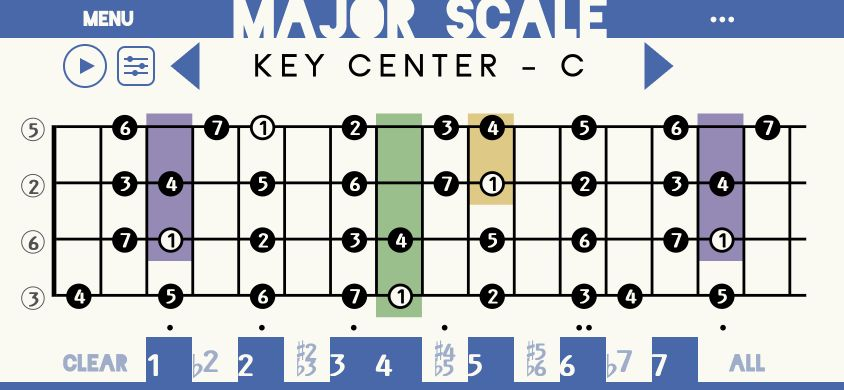
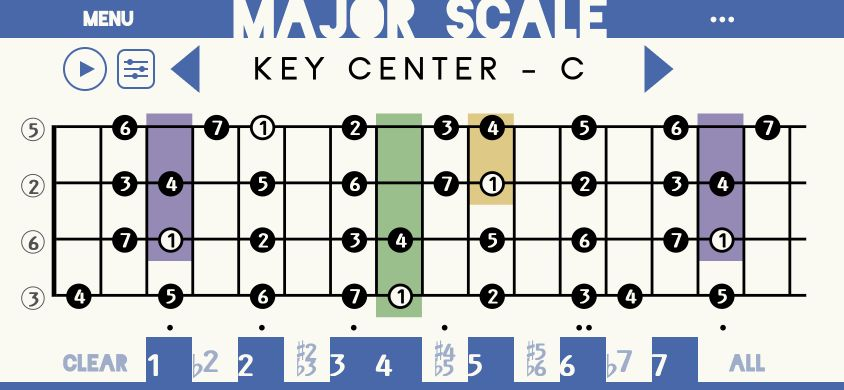
Ease phone practice row spacing below the header

diff --git a/src/components/AudioControls.jsx b/src/components/AudioControls.jsx
@@ -25,7 +25,7 @@ export const AUDIO_CONTROL_GROUP_WIDTH = AUDIO_BUTTON_SIZE + AUDIO_BUTTON_GAP + 
 const audioControlPlacement = (dimensions, insets) => {
   const isTablet = dimensions.width >= 1000 && dimensions.height >= 550;
   const phoneRow = getPhonePracticeHeaderLayout(insets);
-  const headerBottom = isTablet ? tabletHeaderHeight : phoneRow.top;
+  const headerBottom = isTablet ? tabletHeaderHeight : phoneRow.headerBottom;
   const top = isTablet ? headerBottom + 12 : phoneRow.centerY - AUDIO_BUTTON_SIZE / 2;
   const left = getMenuVisualCenterX(insets, isTablet) - AUDIO_CONTROL_GROUP_WIDTH / 2;
   return { headerBottom, isTablet, left, top };

diff --git a/src/components/Header.jsx b/src/components/Header.jsx
@@ -15,9 +15,10 @@ export const getMenuVisualCenterX = (insets, isTablet) => {
 
 // Anchor the phone practice row to the blue header, independent of neck layout.
 export const getPhonePracticeHeaderLayout = (insets) => {
-  const top = phoneHeaderHeight + (Platform.OS === "android" ? 0 : insets.top);
+  const headerBottom = phoneHeaderHeight + (Platform.OS === "android" ? 0 : insets.top);
+  const top = headerBottom + 3;
   const height = 56;
-  return { top, height, centerY: top + height / 2 };
+  return { headerBottom, top, height, centerY: top + height / 2 };
 };
 
 const Header = () => {

diff --git a/REQUIREMENTS.md b/REQUIREMENTS.md
@@ -50,7 +50,7 @@ Chris's October 5 email and voice memo approve the demonstrated changes, with pa
 - Keep the Audio Settings title and close button fixed. Bound the scrolling body explicitly to the usable window height. Fit all content to the panel width, prevent horizontal scrolling/bouncing, and scroll only along the app’s up/down axis. Map portrait-native touch coordinates through the canvas’s 90-degree rotation on iOS and Android, rather than relying on the native ScrollView gesture axis. Keep all settings reachable without clipping at the bottom.
 - Every Tap Tempo press sounds the existing metronome click, including the first tap and while stopped. Keep touch-timestamp tempo detection and the practice clock intact; tapping must not start practice playback or advance count-in/highlights. Return idle native output to suspension after the click ends.
 - Always cover both main-screen audio buttons when the popover is open, including phone/tablet layouts and safe-area changes. Hide the underlying buttons until settings close.
-- Center the complete Play/Settings group beneath the Menu text, on phone and tablet. On phones, fix the key/position header row beneath the blue bar in overview and zoom. Use a shared 56-point row, with title, key arrows and audio controls centered 28 points below the blue bar; leave a six-point gap above the 44-point Play circle. Keep the audio group at identical coordinates between views. Center the zoomed position title on the same screen midpoint and text row as Key Center, using empty key-arrow lanes for longer names. Reserve matching side space and keep the heading centered when Audio is off. Keep the popover anchored over both buttons after layout/safe-area changes.
+- Center the complete Play/Settings group beneath the Menu text, on phone and tablet. On phones, fix the key/position header row beneath the blue bar in overview and zoom. Use a shared 56-point row, with title, key arrows and audio controls centered 31 points below the blue bar; leave a nine-point gap above the 44-point Play circle. Keep the audio group at identical coordinates between views. Center the zoomed position title on the same screen midpoint and text row as Key Center, using empty key-arrow lanes for longer names. Reserve matching side space and keep the heading centered when Audio is off. Keep the popover anchored over both buttons after layout/safe-area changes.
 - Remove shadows from the main-screen Play/Stop and Audio Settings buttons. Leave ten points between them and center the whole pair under Menu, reserving matching clearance for the phone key arrows. Keep at least six points between the Audio Settings card and the app header while replacing both audio buttons. Remove the Audio Settings card border and uppercase TEMPO, SUBDIVISION, and ACCOMPANIMENT labels. Center each tempo-row element (label, Tap, arrow pair, number, BPM) on one horizontal line, and likewise the subdivision label, arrow pair, and stacked value.
 - Provide separate saved Notes and Accompaniment volume sliders with a smooth audio taper, exact silence at the left endpoint and full level at the right. Halfway corresponds to −20 dB internally; show a plain 0–100 position readout, with 0 silent and 100 full volume. Preserve saved linear mixer gains when displaying the new tapered positions. Support taps/drags, keyboard arrows and Home/End on web, and native accessibility adjustment; horizontal slider drags follow the rotated phone canvas while vertical swipes can scroll the settings. Use one shared 14-point, bold, black, left-aligned label style for TEMPO, SUBDIVISION, NOTES, ACCOMPANIMENT, and both VOLUME labels. Place NOTES above the note controls and ACCOMPANIMENT above its mode buttons. Label both sliders VOLUME and retain separate accessible Notes/Accompaniment volume names. Accompaniment volume also controls count-in and Tap Tempo clicks. Balance full-level note, click, kick and snare peaks closely while keeping the hi-hat underneath and reserving headroom for the summed mix. Use the same calibration in native and fallback playback. Apply live volume changes without restarting playback, shifting the shared clock, or regenerating samples; smooth native gain changes over 20 ms.
 - Keep Play a 44-by-44 circle with centered vector Play/Stop symbols. Make the settings button slightly shorter at 40 points high by 38 points wide, vertically centered beside Play with its mixer icon centered. Show the count-in as centered 1–2–3–4 inside this button using the same Basic Manual font and DegreeLabel renderer as neck circles, preserving the digits' natural proportions and centering their ink bounds. Advance from the same audio-clock/display-frame updates as note highlights; remove the popover countdown. Tapping the button during count-in still stops and resets playback.

diff --git a/TESTING.md b/TESTING.md
@@ -283,3 +283,8 @@ Before release, listen on bundled iOS and Android builds and the Expo Audio fall
 - Use the same screen-centered, 38-point text row for Key Center and zoomed position names. Zoom names use the empty key-arrow lanes to stay readable on smaller phones without moving their center.
 - At 844 × 390, both views put Play at x=63/y=44 and the title center at x=422/y=66. At 667 × 320 the title center remains x=333.5/y=66, Play remains x=63/y=44, and the previous-key target is x=163/y=38/44×56 with eight points of clearance from Settings. At 568 × 320 both heading centers are x=284/y=66; the longest position title fits its 242-point slot (text width 237.23). At 844 × 390 that title fits its 430-point slot (text width 421.55).
 - Settings still opens six points below the blue bar, hides both audio buttons, and closing restores Play to y=44. Screenshots: `docs/pr-51/phone-header-overview.png` and `docs/pr-51/phone-header-zoom.png`. All 130 tests, web export and final Android/iOS bundled Release builds pass. Updated iPad build installed/launched.
+
+### Phone header spacing midpoint — October 8, 2026
+
+- Lower the shared phone practice row by three points, halfway back from the previous six-point rise. Title, key arrows and audio controls move together in overview and zoom; keep the popover anchored to the actual blue-header bottom independently of this row offset.
+- At 844 × 390 both titles center at x=422/y=69, and Play remains x=63/y=47 in both views. At 667 × 320 both titles center at x=333.5/y=69. The Play circle now leaves nine points below the blue bar; neck placement stays intact. Refreshed overview/zoom screenshots in `docs/pr-51/phone-header-overview.png` and `docs/pr-51/phone-header-zoom.png`. Web export and Android/iOS bundled Release builds pass.
